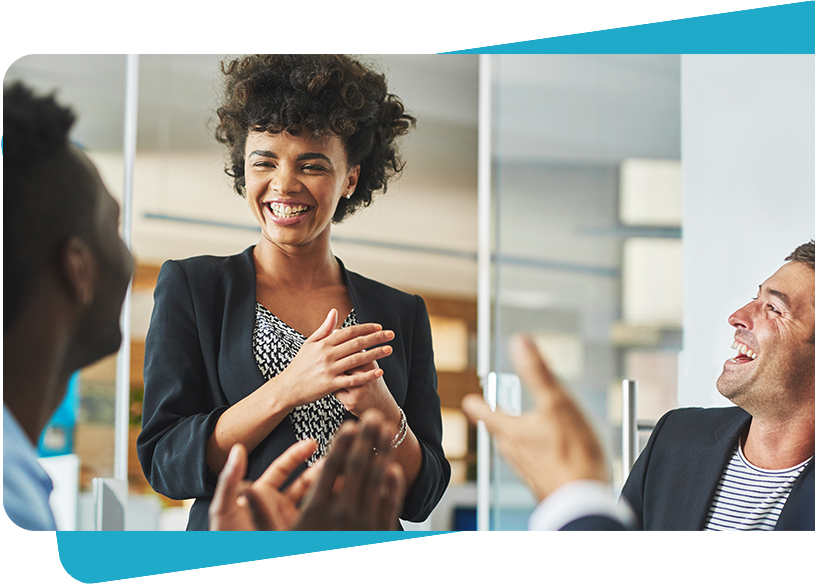
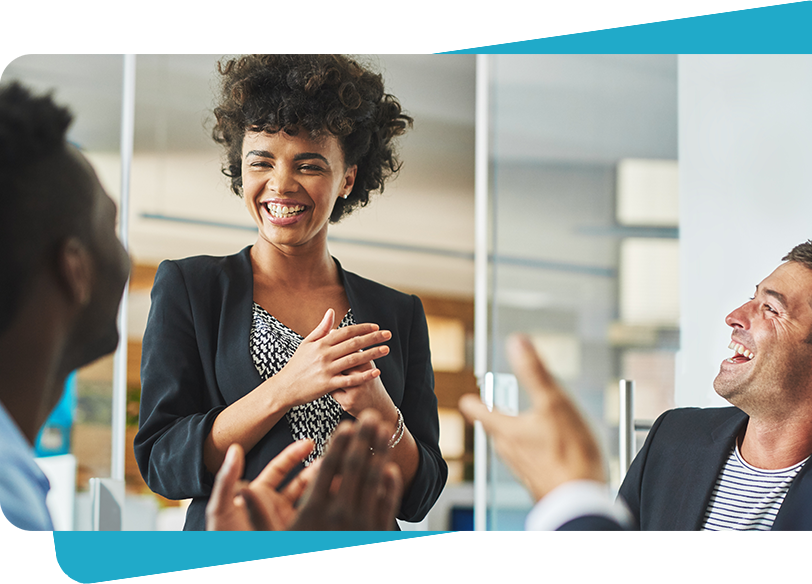
Slide image (3) to left to align with image below

diff --git a/assets/style.css b/assets/style.css
@@ -373,7 +373,7 @@ button {
   margin-right: auto;
 }
 .every__slider .slide__caption {
-  font-size: 18px;
+  font-size: 16px;
   font-weight: bold;
   letter-spacing: 3px;
   text-align: center;
@@ -401,9 +401,10 @@ button {
   border-radius: 50%;
   margin-top: 0px;
   margin-left: 0;
+  margin-top: -28px;
 }
 .every__slider .glide__arrow--left {
-  margin-left: 10px;
+  margin-left: -10px;
 }
 .every__slider .glide__arrow--right {
   right: 0;
@@ -716,6 +717,9 @@ button {
 .works {
   overflow-x: hidden;
 }
+.works .container {
+  max-width: 472px;
+}
 
 .works .section__title {
   text-align: center;
@@ -828,6 +832,12 @@ button {
   margin-left: 0;
   direction: rtl;
 }
+.works__card--3 .works__card__image {
+  right: 0;
+}
+.works__card--3 .works__card__image img {
+  max-width: initial;
+}
 .works__card__image img {
   height: 100%;
   max-width: initial;
@@ -849,7 +859,8 @@ button {
 }
 .whyus__image {
   position: relative;
-  width: 95%;
+  width: 100%;
+  padding-left: 16px;
   margin-right: 0;
   margin-left: auto;
 }
